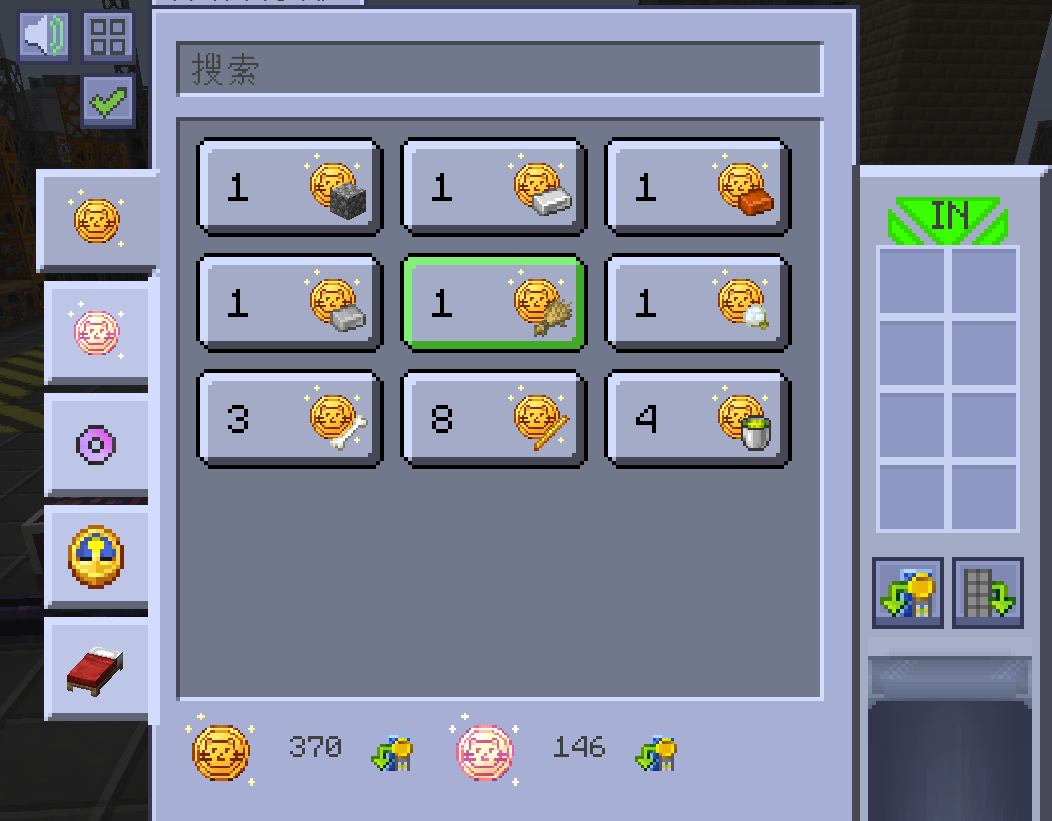
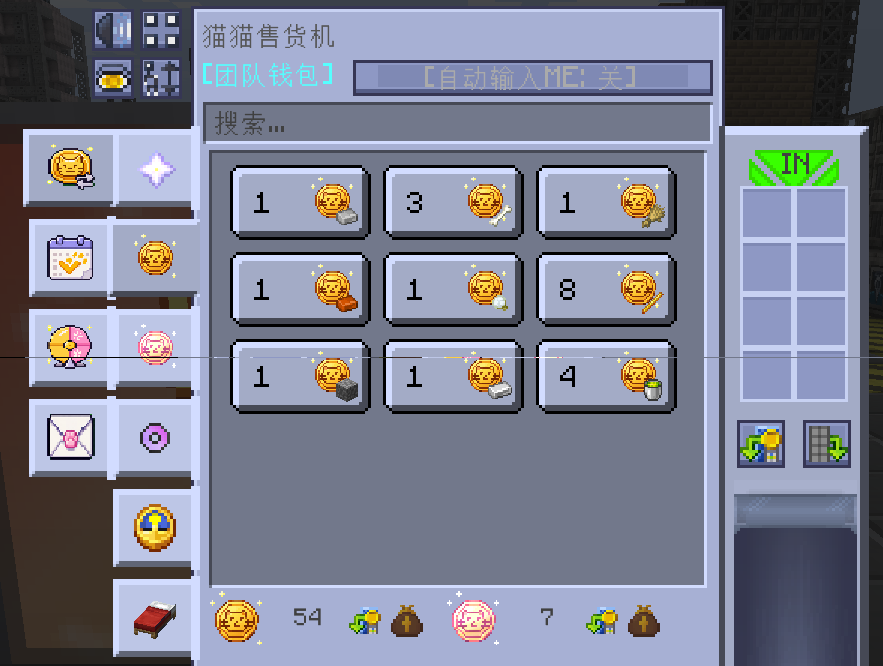
1.7.23

diff --git a/README.md b/README.md
@@ -20,9 +20,8 @@ A GregTech New Horizons gadget mod that **provides interesting items enhancing t
 
 ## Neko Vending Machine / 猫猫售货机
 
-<p align="center"><img src="README/neko%20vending%20machine.png" width="384"></p>
-<p align="center"><img src="README/neko%20vending%20machine-1.png" width="384"></p>
-<p align="center"><img src="README/neko%20vending%20machine-2.png" width="384"><br><em>猫猫售货机界面 / Neko Vending Machine GUI</em></p>
+<p align="center"><img src="README/neko%20vending%20machine.png" width="250"></p>
+<p align="center"><img src="README/neko%20vending%20machine-1.png" width="250"><img src="README/neko%20vending%20machine-2.png" width="250"><br><em>猫猫售货机界面 / Neko Vending Machine GUI</em></p>
 
 A custom trading machine built on top of the VendingMachine framework, featuring an independent currency system (Neko Coin), dynamic tabbed GUI, BetterQuesting integration, and BGM. Designed as a progression-gated reward shop where players earn Neko Coins through quests and spend them on loot bags and items.
 
@@ -72,7 +71,7 @@ Three trade types supported:
 
 ### GUI & Tabs / 界面与标签页
 
-<p align="center"><img src="/images/trade_gui.png" width="384"><br><em>交易界面 / Trade GUI</em></p>
+<p align="center"><img src="README/trade.png" width="300"><br><em>交易界面 / Trade GUI</em></p>
 
 - **Dynamic tabs / 动态标签页**: 3 default tabs + unlimited custom tabs (add via command with held item as icon)
 - **Neko Coin display / 猫猫币显示**: Real-time balance display with expandable details
@@ -123,12 +122,11 @@ All commands under `/gtit`, OP permission level 2. **Tab completion supported** 
       └── help                                  -- Full help
 ```
 
-**Edit inventory layout / 编辑物品布局**:
+**visual editor / 可视化编辑**:
 
-- Rows 1-2 (slots 9-26): Required items / Neko Coins (auto-detected)
-- Hotbar slots 0-9: Reward items (slot 0 = trade icon, up to 10 reward item types)
-- 背包前两行（槽位 9-26）：需求物品 / 猫猫币（自动识别）
-- 工具栏前 10 格（槽位 0-9）：产物物品（槽位 0 = 交易图标，最多 10 种产物）
+<p align="center"><img src="README/edit1.png" width="250"><img src="README/edit2.png" width="250"></p>
+<p align="center"><img src="README/edit3.png" width="250"><img src="README/edit4.png" width="250"></p>
+
 
 ### Configuration / 配置
 
@@ -157,7 +155,7 @@ If `nekovm_trades.json` does not exist, default trades are generated from `NekoT
 
 ## Daily Sign-In / 每日签到
 
-<p align="center"><img src="/images/signin_gui.png" width="384"><br><em>签到界面 / Sign-In GUI</em></p>
+<p align="center"><img src="README/signin.png" width="384"><br><em>签到界面 / Sign-In GUI</em></p>
 
 A daily reward system that grants players cumulative rewards for logging in each day, with optional online-time tier bonuses.
 
@@ -167,7 +165,7 @@ A daily reward system that grants players cumulative rewards for logging in each
 
 ## Lottery / 抽奖
 
-<p align="center"><img src="/images/lottery_gui.png" width="384"><br><em>抽奖界面 / Lottery GUI</em></p>
+<p align="center"><img src="README/lottery.png" width="384"><br><em>抽奖界面 / Lottery GUI</em></p>
 
 A gacha-style reward pool where players spend Neko Coins or items to draw random rewards.
 
@@ -177,7 +175,7 @@ A gacha-style reward pool where players spend Neko Coins or items to draw random
 
 ## Mail / 邮件
 
-<p align="center"><img src="/images/mail_gui.png" width="384"><br><em>邮件界面 / Mail GUI</em></p>
+<p align="center"><img src="README/mail.png" width="384"><br><em>邮件界面 / Mail GUI</em></p>
 
 An in-game mail system for receiving rewards, announcements, and attachments from server operators or automated events.
 
